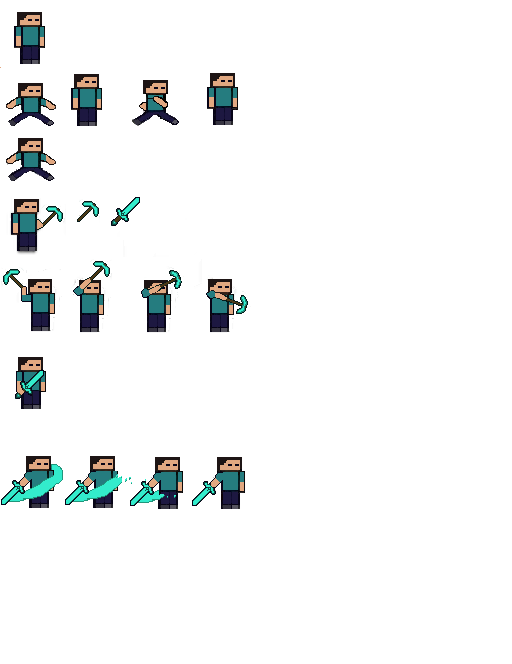
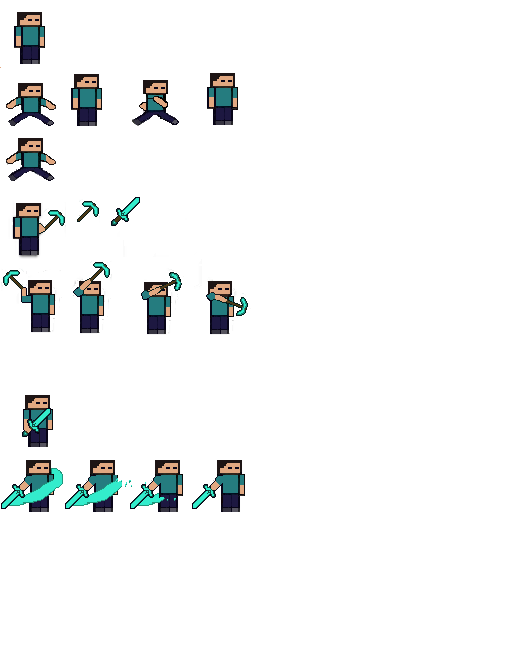
Enventer selection (sword and pickaxe)

diff --git a/SFMLMinecraft/main.cpp b/SFMLMinecraft/main.cpp
@@ -48,10 +48,13 @@ int main() {
     inventoryPanel.loadTexture("assets/tileset.png", tileSize);
 
     // optionally populate the inventory with tile IDs:
-	inventoryPanel.populateWithTiles(TILE_CATEGORY_TERRAIN);
+    inventoryPanel.populateWithTiles(TILE_CATEGORY_TERRAIN);
     inventoryPanel.populateWithTiles(TILE_CATEGORY_WOOD);
     inventoryPanel.populateWithTiles(TILE_CATEGORY_ORES);
     inventoryPanel.populateWithTiles(TILE_CATEGORY_DECORATIVE);
+
+    // track previous selected slot so we can stop actions when selection changes
+    int prevSelectedSlot = playerInventory.getSelectedSlot();
 
 
     sf::Font font;
@@ -98,6 +101,7 @@ int main() {
     bool wasMousePressed = false;
 
     // --- Game Loop ---
+    // --- Game Loop ---
     while (window.isOpen()) {
         float deltaTime = clock.restart().asSeconds();
 
@@ -122,7 +126,7 @@ int main() {
 
             }
 
-			// Mouse click ınventory interaction
+            // Mouse click inventory interaction
             if (ev->is<sf::Event::MouseButtonPressed>()) {
                 sf::Vector2f mousePos = window.mapPixelToCoords(sf::Mouse::getPosition(window));
                 inventoryPanel.handleClick(mousePos);
@@ -132,23 +136,44 @@ int main() {
         // --- Input ---
         character.handleInput();
 
+        // detect selected slot change and stop current action if selection changed
+        int currentSelectedSlot = playerInventory.getSelectedSlot();
+        if (currentSelectedSlot != prevSelectedSlot) {
+            actionManager.stopAction(character);
+            prevSelectedSlot = currentSelectedSlot;
+        }
+
+        // update character held item from inventory selection each frame
+        InventoryItem* selItem = playerInventory.getSelectedItem();
+        int heldId = (selItem ? selItem->tileId : TILE_AIR);
+        character.setHeldItem(heldId);
+
         // --- Mouse Position ---
         sf::Vector2i mousePixelPos = sf::Mouse::getPosition(window);
         sf::Vector2f mouseWorldPos = window.mapPixelToCoords(mousePixelPos);
         int mX = static_cast<int>(mouseWorldPos.x) / static_cast<int>(tileSize.x);
         int mY = static_cast<int>(mouseWorldPos.y) / static_cast<int>(tileSize.y);
 
-        // --- Mining (Left Mouse) & Sword Attack (Right Mouse) ---
+        // --- Actions (left-click behaviour depends on selected tool)
         bool isLeftMousePressed = sf::Mouse::isButtonPressed(sf::Mouse::Button::Left);
         bool isRightMousePressed = sf::Mouse::isButtonPressed(sf::Mouse::Button::Right);
+
         if (!inventoryPanel.getVisible()) {
             character.handleInput();
 
-            // Mining with left mouse
-            actionManager.handleMining(character, map, mX, mY, breakableTiles, tileSize, deltaTime, isLeftMousePressed);
-
-            // Sword attack with right mouse
-            actionManager.handleSwordAttack(character, mX, mY, tileSize, deltaTime, isRightMousePressed);
+            if (heldId == TOOL_SWORD) {
+                // left mouse -> sword attack
+                actionManager.handleSwordAttack(character, mX, mY, tileSize, deltaTime, isLeftMousePressed);
+            }
+            else if (heldId == TOOL_PICKAXE) {
+                // left mouse -> mining
+                actionManager.handleMining(character, map, mX, mY, breakableTiles, tileSize, deltaTime, isLeftMousePressed);
+            }
+            else {
+                // default behavior: left mining, right sword
+                actionManager.handleMining(character, map, mX, mY, breakableTiles, tileSize, deltaTime, isLeftMousePressed);
+                actionManager.handleSwordAttack(character, mX, mY, tileSize, deltaTime, isRightMousePressed);
+            }
         }
         else {
             character.stopMovement();

diff --git a/SFMLMinecraft/Character.cpp b/SFMLMinecraft/Character.cpp
@@ -51,7 +51,7 @@ void Character::update(float deltaTime) {
             if (swingingSword) {
                 swordAnimationTimer = 0.0f;
                 animations["sword"].reset();
-                swingingSword = false; 
+                swingingSword = false;
             }
             else {
                 swordAnimationTimer = 0.0f;
@@ -68,7 +68,7 @@ void Character::update(float deltaTime) {
     float currentFriction = friction;
     if (isOnGround) {
         if (mining) currentFriction *= 0.8f;
-        if (swingingSword) currentFriction *= 0.7f; 
+        if (swingingSword) currentFriction *= 0.7f;
 
         velocity.x *= currentFriction;
         if (std::abs(velocity.x) < 10.f) velocity.x = 0.f;
@@ -86,23 +86,6 @@ void Character::update(float deltaTime) {
 
     updateHitbox();
     updateAnimationState();
-}
-
-void Character::applyGravity(float deltaTime) {
-    velocity.y += gravity * deltaTime;
-
-    // Max fall speed
-    if (velocity.y > maxFallSpeed) {
-        velocity.y = maxFallSpeed;
-    }
-}
-
-void Character::jump() {
-    if (isOnGround && !mining && !swingingSword) {
-        velocity.y = jumpVelocity;
-        isOnGround = false;
-        isJumping = true;
-    }
 }
 
 void Character::updateAnimationState()
@@ -130,8 +113,34 @@ void Character::updateAnimationState()
             setAnimation("walk");
         }
         else {
-            setAnimation("idle");
+            // Choose idle animation depending on held item
+            if (heldItemId == TOOL_SWORD) {
+                setAnimation("sword_idle");
+            }
+            else if (heldItemId == TOOL_PICKAXE) {
+                setAnimation("pickaxe_idle");
+            }
+            else {
+                setAnimation("idle");
+            }
         }
+    }
+}
+
+void Character::applyGravity(float deltaTime) {
+    velocity.y += gravity * deltaTime;
+
+    // Max fall speed
+    if (velocity.y > maxFallSpeed) {
+        velocity.y = maxFallSpeed;
+    }
+}
+
+void Character::jump() {
+    if (isOnGround && !mining && !swingingSword) {
+        velocity.y = jumpVelocity;
+        isOnGround = false;
+        isJumping = true;
     }
 }
 
@@ -298,4 +307,15 @@ sf::FloatRect Character::getGlobalBounds() const {
 void Character::setPosition(const sf::Vector2f& position) {
     sprite.setPosition(position);
     updateHitbox();
+}
+
+void Character::setHeldItem(int tileOrToolId) {
+    if (heldItemId == tileOrToolId) return;
+    heldItemId = tileOrToolId;
+    // update idle immediately if not currently in an action
+    if (!mining && !swingingSword) {
+        // Force animation update to reflect new held item
+        updateAnimationState();
+        animations[currentAnimation].reset();
+    }
 }

diff --git a/SFMLMinecraft/Character.h b/SFMLMinecraft/Character.h
@@ -1,6 +1,7 @@
 #pragma once
 #include <SFML/Graphics.hpp>
 #include "Animation.h"
+#include "TileID.h"
 
 class Character {
 public:
@@ -37,6 +38,10 @@ public:
     void resetSwordAnimation();
     float getSwordAnimationDuration() const { return SWORD_ANIMATION_DURATION; }
 
+    // affects idle & input behavior
+    void setHeldItem(int tileOrToolId);
+    int getHeldItem() const { return heldItemId; }
+
 private:
     void applyGravity(float deltaTime);
     void jump();
@@ -70,9 +75,12 @@ private:
     bool swingingSword = false; // for sword
     float swordAnimationTimer = 0.0f;
 
+    // Held item id from inventory (TOOL_SWORD / TOOL_PICKAXE etc.)
+    int heldItemId = TILE_AIR;
+
     // Constants
     static constexpr float moveSpeed = 400.0f;
     static constexpr float friction = 0.85f;
     static constexpr float PICKAXE_ANIMATION_DURATION = 1.0f;
-    static constexpr float SWORD_ANIMATION_DURATION = 0.7f; 
+    static constexpr float SWORD_ANIMATION_DURATION = 0.7f;
 };
